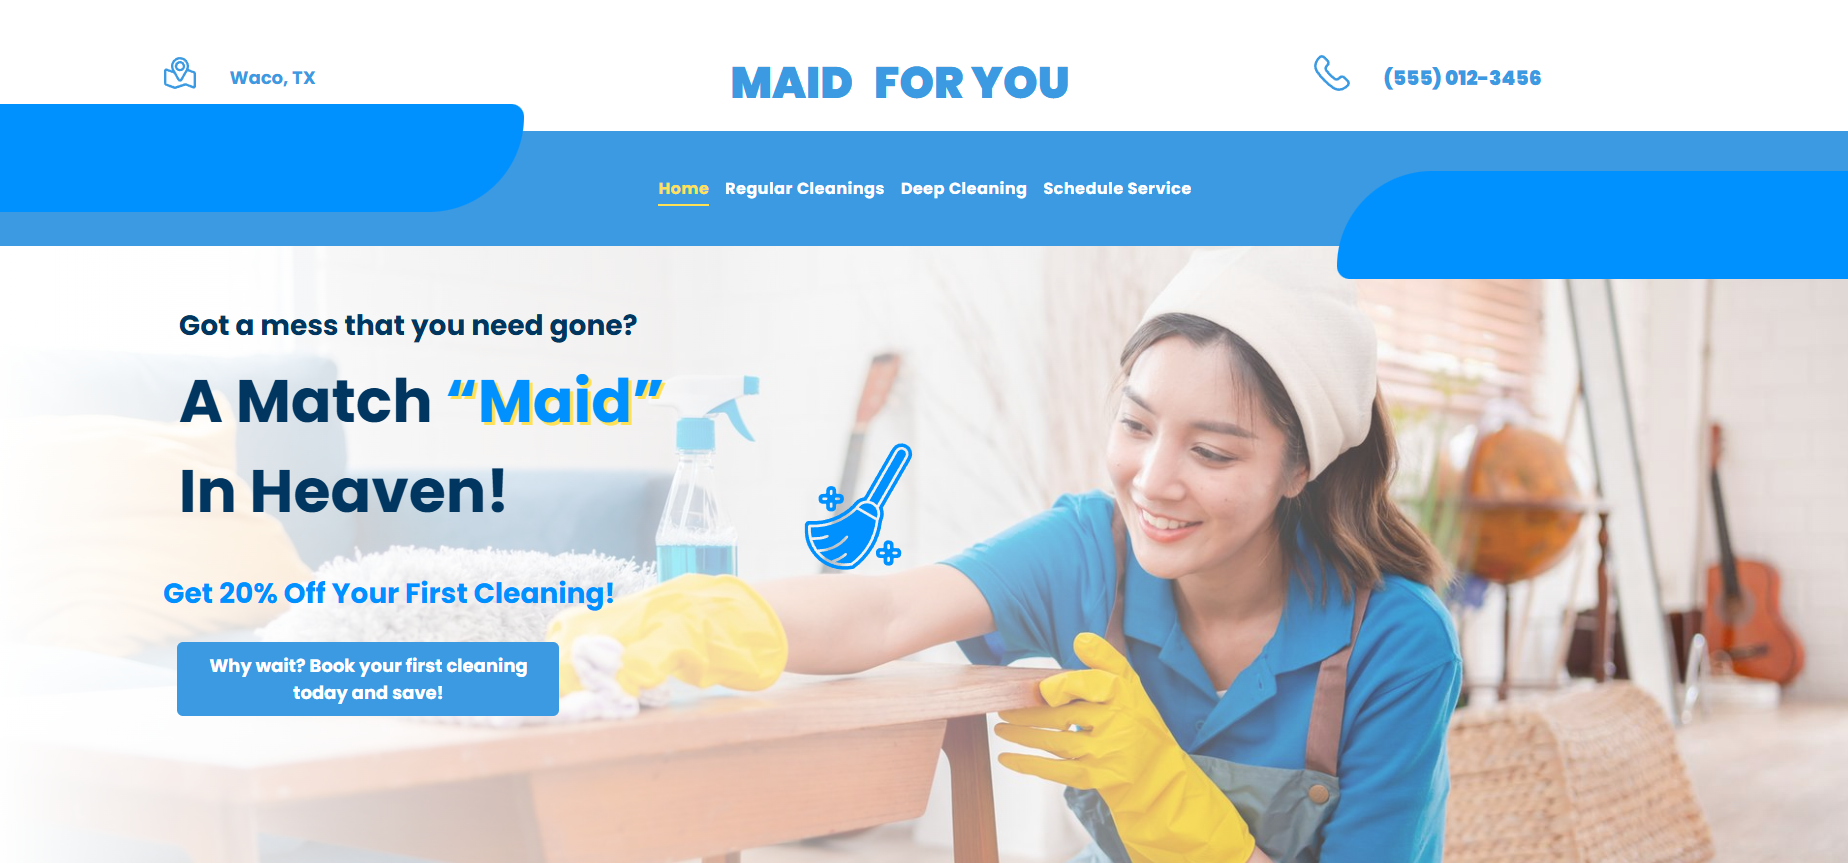
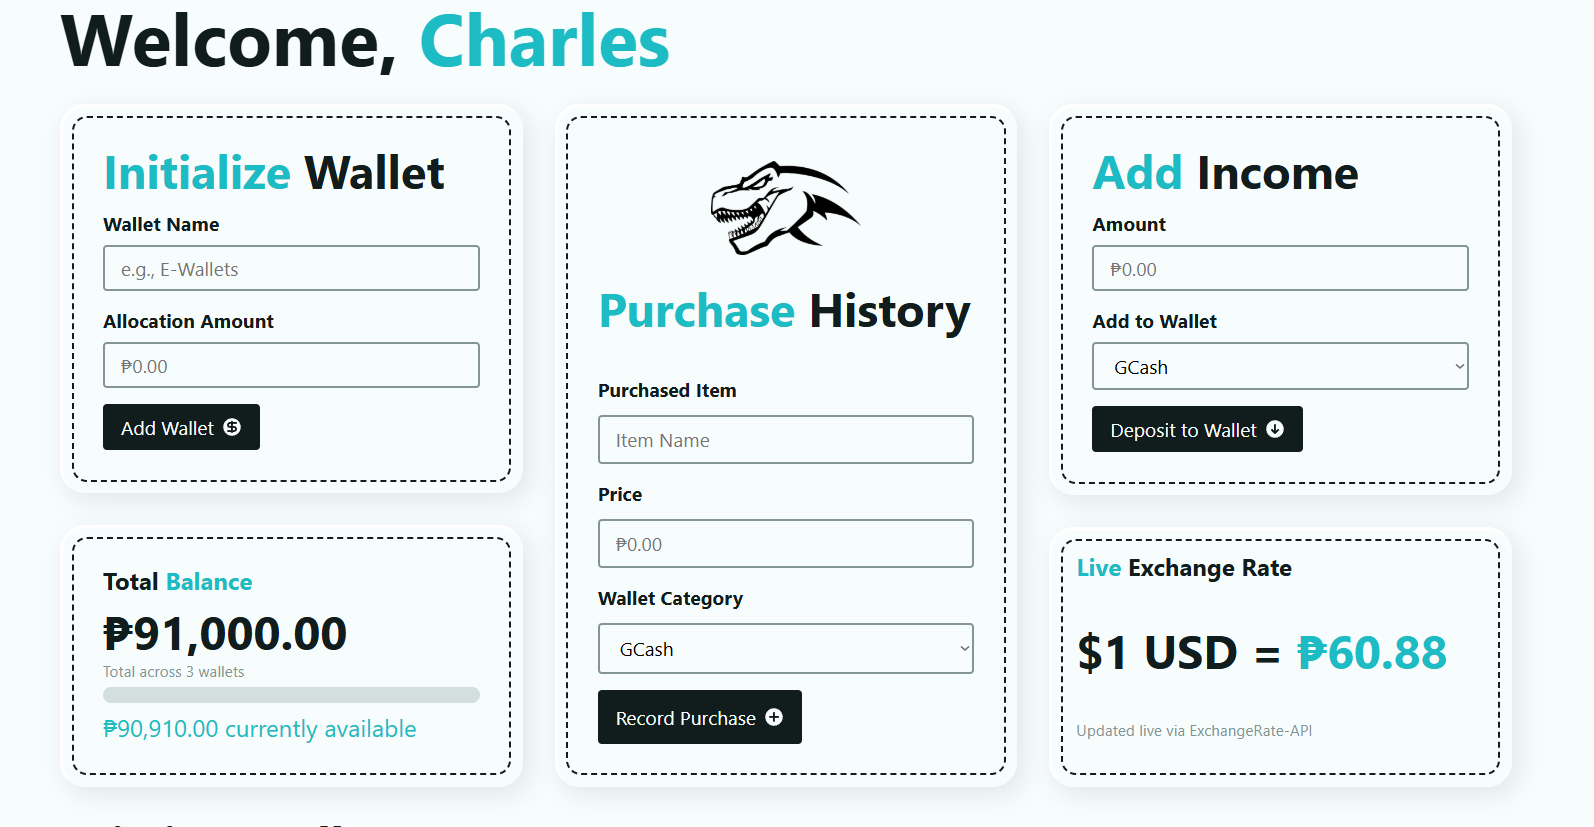
New Project Update 1

diff --git a/src/sections/tools.jsx b/src/sections/tools.jsx
@@ -5,7 +5,7 @@ import { FaBlender, FaBootstrap, FaHtml5, FaNodeJs, FaPython, FaReact, FaSalesfo
 import { DiIllustrator, DiJavascript, DiMongodb, DiNodejs, DiPhotoshop } from "react-icons/di";
 import { BsJavascript, BsUnity, BsWordpress } from "react-icons/bs";
 import { RiJavascriptFill } from "react-icons/ri";
-import { SiBlender, SiCanva, SiCloudinary, SiRender, SiTailwindcss } from "react-icons/si";
+import { SiBlender, SiCanva, SiCloudinary, SiReactrouter, SiRender, SiTailwindcss } from "react-icons/si";
 import { CgVercel, CgWebsite } from "react-icons/cg";
 import { GiBlender, GiTBrick } from "react-icons/gi";
 import { FiFigma } from "react-icons/fi";
@@ -23,9 +23,10 @@ const skills = [
     //frontend
     {name: "HTML/CSS", level:80, category: "frontend", icon:<FaHtml5 />, label:"High Proficiency", },
     {name: "Javascript", level:40, category: "frontend", icon:<RiJavascriptFill />, label:"Active Learning", },
-    {name: "Tailwind CSS", level:25, category: "frontend", icon:<SiTailwindcss />, label:"Active Learning", },
+    {name: "Tailwind CSS", level:35, category: "frontend", icon:<SiTailwindcss />, label:"Active Learning", },
     {name: "React", level:25, category: "frontend", icon:<FaReact />, label:"Active Learning", },
     {name: "Bootstrap5", level:75, category: "frontend", icon:<FaBootstrap />, label:"Proficient", },
+    {name: "React Routers", level:30, category: "frontend", icon:<SiReactrouter />, label:"Active Learning", },
     //Backend
     {name: "Node.js", level:50, category: "backend", icon:<FaNodeJs />, label:"Active Learning", },
     {name: "MongoDB", level:45, category: "backend", icon:<DiMongodb />, label:"Familiar", },

diff --git a/src/sections/Projects.jsx b/src/sections/Projects.jsx
@@ -22,11 +22,11 @@ const projects = [
     },
     {
        id: 3,
-       title: "Maid For You Duda Website",
-       description: "A professional service-oriented mockup designed and deployed via the Duda web builder. Focused on conversion-centric layout principles and seamless cross-device responsiveness.",
+       title: "Personal Finance Tracker",
+       description: "A simple front-end finance tracker mockup developed using React JS and React Routers with a responsive traditional custom CSS framework and uses Local Browser Storage.",
        image: "/projects/project3.png", 
-       tags: ["WebBuilder", "DUDA", "Web Design"],
-       link: "https://beta.websiteadmin.thryv.com/preview/757953b01ce44de48eb8553f2cc44939?t=1748436827980&device=all",
+       tags: ["React Routers", "React JS"],
+       link: "https://personalfinancetracker-rose.vercel.app/",
        githubUrl: "#",
     },
     {

diff --git a/src/sections/Gallery.jsx b/src/sections/Gallery.jsx
@@ -29,13 +29,23 @@ const galleryData = [
         type: "site",
         imageLink: "/projects/WebDesign/originalp.png",
         link: "https://coderex990.github.io/Charles-Online-Portfolio/" 
-      },        
+      },
+      { 
+        type: "site",
+        imageLink: "/projects/WebDesign/project3.png",
+        link: "https://beta.websiteadmin.thryv.com/preview/757953b01ce44de48eb8553f2cc44939?t=1748436827980&device=all",
+      },       
     ],
   },
   {
     label: "Logo",
     value: "logo",
     images: [
+      { 
+        type: "image",
+        imageLink: "./projects/Logo/REX LOGO.png",
+        link: "./projects/Logo/REX LOGO.png" 
+      },
       { 
         type: "image",
         imageLink: "./projects/Logo/REXlangnew.jpg",
